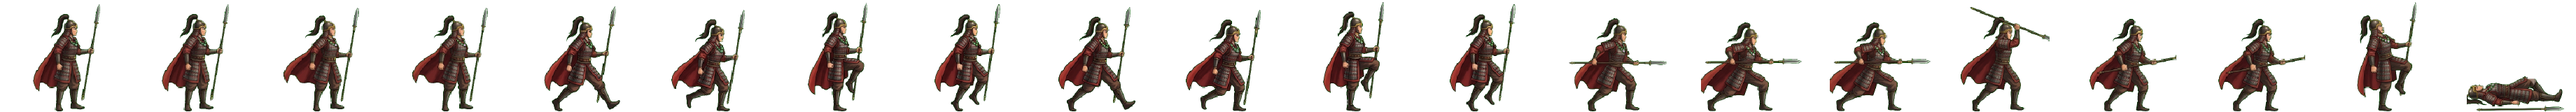
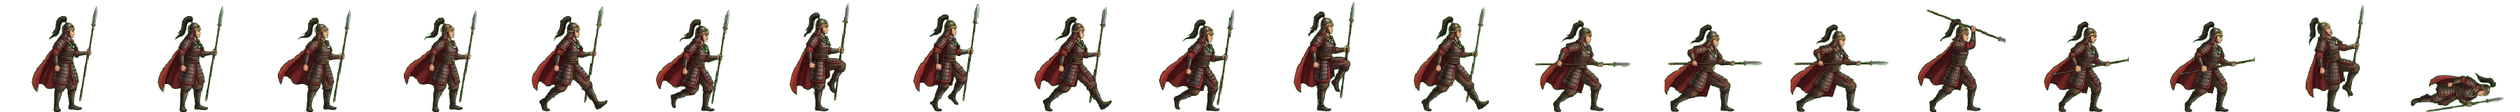
여창 장수 띠 — 우하단 두 컷(걷기 8번 · 쓰러짐)을 별표 없는 새 장으로 (빌려 쓰던 걷기 4번 · 지운 쓰러짐 대신)
Claude-Session: https://claude.ai/code/session_01TRiuNBGbXbYg8PKZrR5zi4

diff --git a/src/realm/data/art.ts b/src/realm/data/art.ts
@@ -462,7 +462,7 @@ export const GEN_ANIM: Readonly<Partial<Record<string, { ar: number; body: numbe
   'g-sword': { ar: 150 / 160, body: 0.948 }, // 11-03 걷기가 한 자세라 20컷 통째로 다시 (제미나이 4 Argon · tools/assemble-gen20.mjs)
   'g-bow': { ar: 149 / 160, body: 0.948, bow: true }, // 11-03 20컷 다시 (걷기가 한 자세였다)
   'g-spear': { ar: 189 / 160, body: 0.914 }, // 11-03 20컷 다시 (걷기가 한 자세였다)
-  'w-spear': { ar: 184 / 160, body: 0.955 }, // 11-03 20컷 다시 (걷기가 한 자세였다)
+  'w-spear': { ar: 180 / 160, body: 0.934 }, // 11-04 우하단 두 컷(걷기 8 · 쓰러짐)을 별표 없는 장으로 갈아 끼움
   'w-bow': { ar: 152 / 160, body: 0.968, bow: true }, // 11-03 20컷 다시 (걷기가 한 자세였다)
   mount: { ar: 246 / 160, body: 0.968 },
   // 제 그림 (GEN_OWN) — 글 주문만으로 받은 장수 (docs/realm/GENERAL-SPRITES.md)
